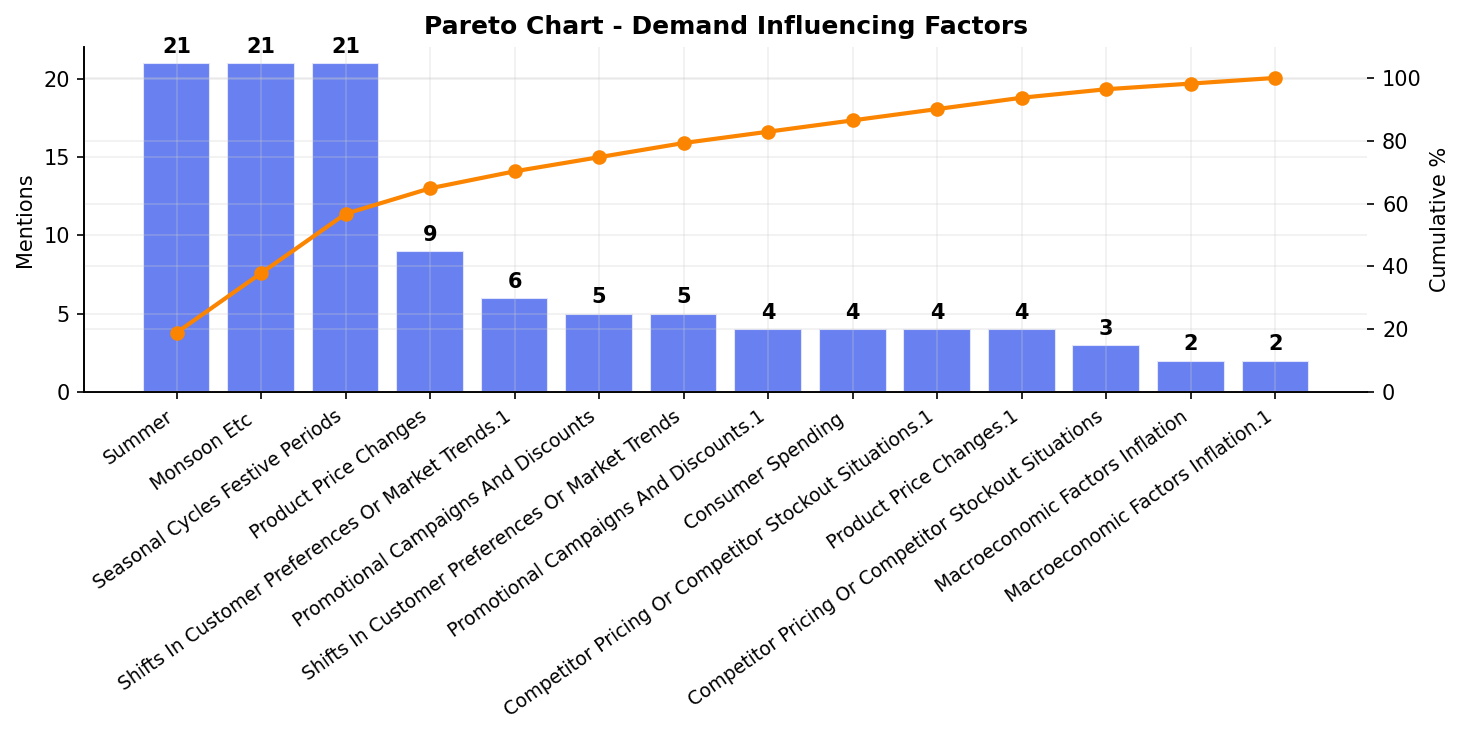
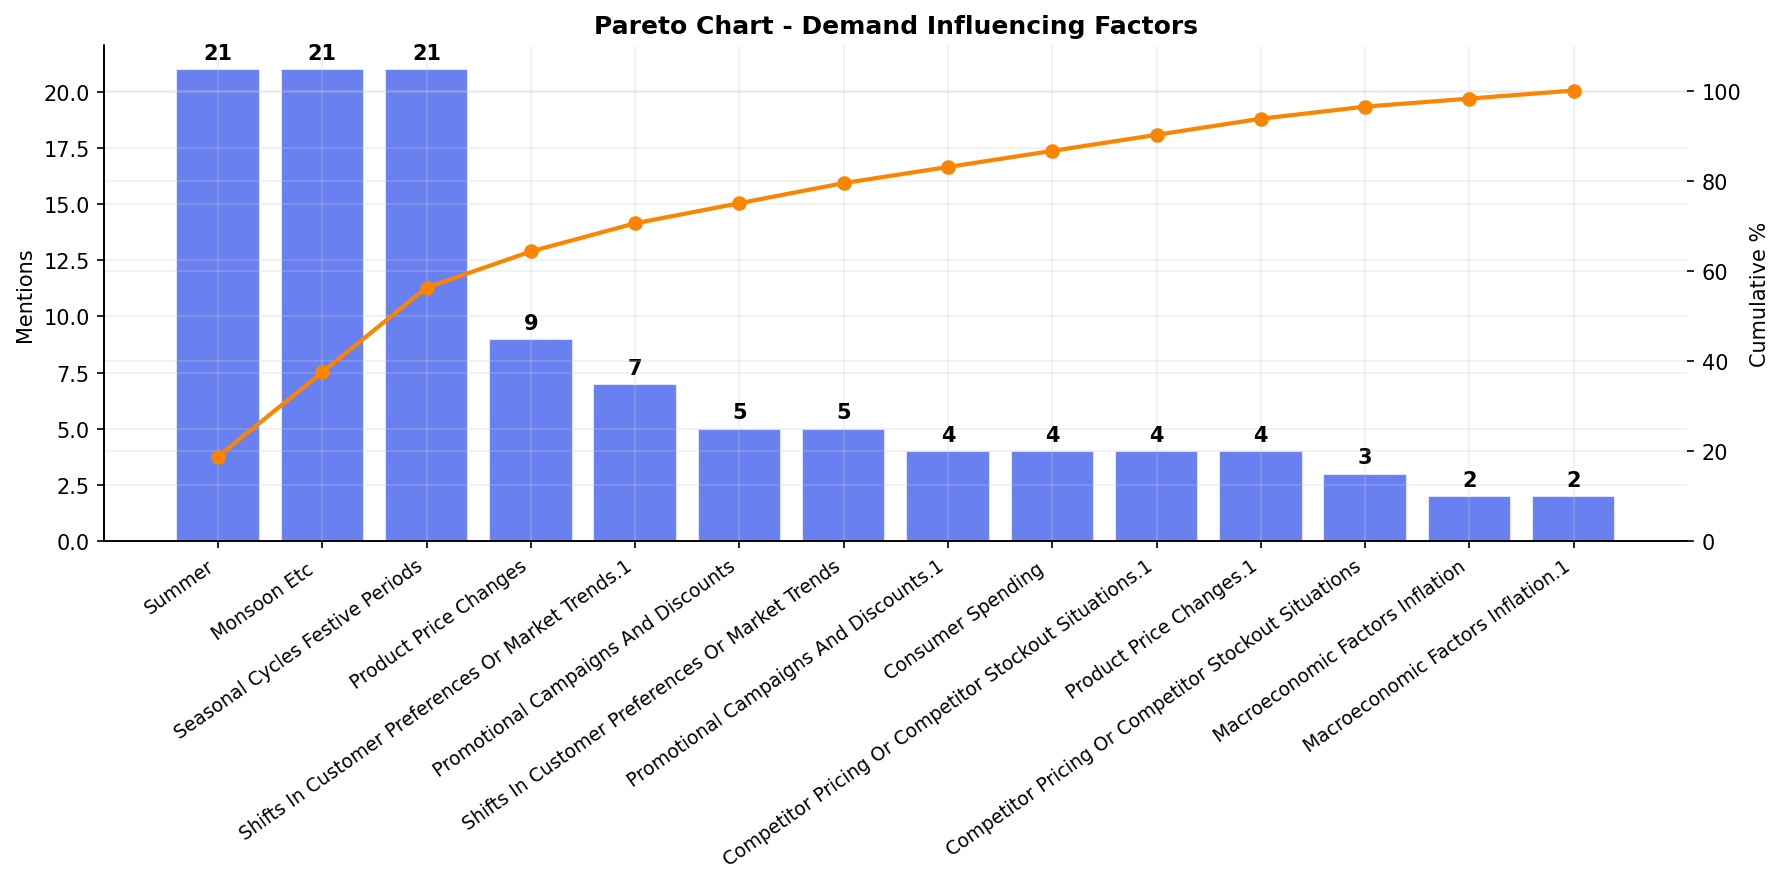
made changes to analysis.py

diff --git a/backend/analysis.py b/backend/analysis.py
@@ -67,15 +67,23 @@ def load_data(filepath=None):
     return df
 
 # -- HELPER ------------------------------------------------------------------
-def wrap_labels(ax, width=15):
+def wrap_labels(ax, width=15, is_x=True):
     labels = []
-    for label in ax.get_xticklabels():
-        text = label.get_text()
-        labels.append(textwrap.fill(text, width=width))
-    ax.set_xticklabels(labels, rotation=0)
+    if is_x:
+        for label in ax.get_xticklabels():
+            text = label.get_text()
+            labels.append(textwrap.fill(text, width=width))
+        ax.set_xticklabels(labels, rotation=0)
+    else:
+        for label in ax.get_yticklabels():
+            text = label.get_text()
+            labels.append(textwrap.fill(text, width=width))
+        ax.set_yticklabels(labels)
 
 def save(name):
     path = os.path.join(CHARTS_DIR, f"{name}.png")
+    print(f"Opening window for: {name} (Please resize it if needed and close to continue)")
+    plt.show() # Opens interactive window (Option 2)
     plt.savefig(path, dpi=150, bbox_inches="tight")
     plt.close()
     print(f"  [OK] {path}")
@@ -88,7 +96,7 @@ def save(name):
 def plot_business_type_bar(df):
     """Bar chart - Business type distribution."""
     vc = df["business_type"].value_counts()
-    fig, ax = plt.subplots(figsize=(7, 4))
+    fig, ax = plt.subplots(figsize=(8, 5))
     bars = ax.bar(vc.index, vc.values, color=COLORS[:len(vc)], width=0.5, edgecolor="white")
     ax.bar_label(bars, fmt="%d", padding=4, fontsize=10, fontweight="bold")
     ax.set_title("Business Type Distribution", fontsize=12, fontweight="bold", pad=16)
@@ -100,7 +108,7 @@ def plot_business_type_bar(df):
 
 def plot_likert_histograms(df):
     """Histogram grid – distribution of all 6 Likert responses."""
-    fig, axes = plt.subplots(2, 3, figsize=(12, 6), sharey=True)
+    fig, axes = plt.subplots(2, 3, figsize=(14, 8))
     axes = axes.flatten()
     for i, col in enumerate(LIKERT_COLS):
         ax = axes[i]
@@ -122,7 +130,7 @@ def plot_likert_histograms(df):
 
 def plot_likert_density(df):
     """KDE density plot – smooth distributions of Likert responses."""
-    fig, ax = plt.subplots(figsize=(9, 5))
+    fig, ax = plt.subplots(figsize=(10, 6))
     for i, col in enumerate(LIKERT_COLS):
         jitter = df[col] + np.random.normal(0, 0.08, len(df))
         sns.kdeplot(jitter, ax=ax, label=LIKERT_LABELS[col].replace("\n"," "),
@@ -139,7 +147,7 @@ def plot_likert_density(df):
 
 def plot_box_plots(df):
     """Box plots – Likert spread and outliers by category."""
-    fig, ax = plt.subplots(figsize=(10, 5))
+    fig, ax = plt.subplots(figsize=(12, 6))
     data_list = [df[c].dropna().values for c in LIKERT_COLS]
     labels = [LIKERT_LABELS[c].replace("\n"," ") for c in LIKERT_COLS]
     bp = ax.boxplot(data_list, patch_artist=True, notch=False,
@@ -147,7 +155,7 @@ def plot_box_plots(df):
     for patch, color in zip(bp["boxes"], COLORS):
         patch.set_facecolor(color)
         patch.set_alpha(0.75)
-    ax.set_xticklabels(labels, rotation=20, ha="right", fontsize=9)
+    ax.set_xticklabels(labels, rotation=30, ha="right", fontsize=9)
     ax.set_yticks([1,2,3,4,5])
     ax.set_yticklabels(["SD","D","N","A","SA"])
     ax.set_title("Box Plots – Likert Score Distribution per Statement",
@@ -162,7 +170,7 @@ def plot_violin(df):
     df_v = df[["business_type","L5_analytics_belief"]].dropna()
     if df_v["business_type"].nunique() < 2:
         return
-    fig, ax = plt.subplots(figsize=(8, 5))
+    fig, ax = plt.subplots(figsize=(10, 6))
     parts = ax.violinplot(
         [df_v[df_v["business_type"]==bt]["L5_analytics_belief"].values
          for bt in df_v["business_type"].unique()],
@@ -187,7 +195,7 @@ def plot_violin(df):
 def plot_grouped_bar_stockout_vs_system(df):
     """Grouped bar - Inventory management system vs stockout frequency."""
     tbl = pd.crosstab(df["inv_mgmt"], df["stockout_freq"])
-    ax = tbl.plot(kind="bar", figsize=(10, 5), color=COLORS[:len(tbl.columns)],
+    ax = tbl.plot(kind="bar", figsize=(12, 6), color=COLORS[:len(tbl.columns)],
                   edgecolor="white", width=0.7)
     plt.title("Inventory System vs Stockout Frequency", fontsize=12, fontweight="bold")
     plt.xlabel("Inventory Management System")
@@ -202,7 +210,7 @@ def plot_stacked_forecast_by_biz(df):
     """100% Stacked bar - Forecasting methods by business type."""
     tbl = pd.crosstab(df["business_type"], df["forecast_method"])
     tbl_pct = tbl.div(tbl.sum(axis=1), axis=0) * 100
-    ax = tbl_pct.plot(kind="bar", stacked=True, figsize=(9, 5),
+    ax = tbl_pct.plot(kind="bar", stacked=True, figsize=(11, 6),
                       color=COLORS[:len(tbl_pct.columns)], edgecolor="white", width=0.55)
     plt.title("Forecast Methods by Business Type (100% Stacked)", fontsize=12, fontweight="bold")
     plt.xlabel("Business Type")
@@ -216,7 +224,7 @@ def plot_stacked_forecast_by_biz(df):
 def plot_stacked_demand_pred_by_biz(df):
     """Stacked bar - Demand predictability by business type."""
     tbl = pd.crosstab(df["business_type"], df["demand_predictability"])
-    ax = tbl.plot(kind="bar", stacked=True, figsize=(9, 5),
+    ax = tbl.plot(kind="bar", stacked=True, figsize=(11, 6),
                   color=COLORS[:len(tbl.columns)], edgecolor="white", width=0.55)
     plt.title("Demand Predictability by Business Type", fontsize=12, fontweight="bold")
     plt.xlabel("Business Type")
@@ -238,7 +246,7 @@ def plot_heatmap_correlation(df):
         print("  [!] Too few rows for correlation - skipping")
         return
     corr = likert_df.corr(method="pearson")
-    fig, ax = plt.subplots(figsize=(8, 6))
+    fig, ax = plt.subplots(figsize=(10, 8))
     mask = np.triu(np.ones_like(corr, dtype=bool), k=1)
     sns.heatmap(corr, annot=True, fmt=".2f", cmap="coolwarm", center=0,
                 linewidths=0.5, ax=ax,
@@ -258,7 +266,7 @@ def plot_bubble_chart(df):
     if len(plot_df) == 0:
         return
 
-    fig, ax = plt.subplots(figsize=(9, 5))
+    fig, ax = plt.subplots(figsize=(11, 6))
     biz_types = plot_df["business_type"].unique()
     for i, bt in enumerate(biz_types):
         sub = plot_df[plot_df["business_type"] == bt]
@@ -311,6 +319,7 @@ def plot_diverging_likert(df):
 
     ax.set_yticks(range(len(labels)))
     ax.set_yticklabels(labels, fontsize=9)
+    wrap_labels(ax, width=25, is_x=False)
     ax.axvline(0, color="black", linewidth=1.2)
     ax.set_xlabel("← Disagree  |  Percentage of Respondents (%)  |  Agree →")
     ax.set_title("Diverging Likert Chart – Survey Perception Statements",
@@ -335,10 +344,11 @@ def plot_radar_likert(df):
     angles+= angles[:1]
     labels = [LIKERT_LABELS[c].replace("\n"," ") for c in LIKERT_COLS]
 
-    fig, ax = plt.subplots(figsize=(7, 7), subplot_kw=dict(polar=True))
+    fig, ax = plt.subplots(figsize=(8, 8), subplot_kw=dict(polar=True))
     ax.plot(angles, avgs, color=COLORS[0], linewidth=2.5, zorder=3)
     ax.fill(angles, avgs, color=COLORS[0], alpha=0.2)
     ax.set_thetagrids(np.degrees(angles[:-1]), labels, fontsize=8)
+    ax.tick_params(axis='x', pad=15)
     ax.set_ylim(0, 5)
     ax.set_yticks([1,2,3,4,5])
     ax.set_yticklabels(["1","2","3","4","5"], fontsize=7, color="gray")
@@ -365,7 +375,7 @@ def plot_demand_factors_pareto(df):
     
     s_pct = s.cumsum() / s.sum() * 100
 
-    fig, ax1 = plt.subplots(figsize=(10, 5))
+    fig, ax1 = plt.subplots(figsize=(12, 6))
     bars = ax1.bar(range(len(s)), s.values, color=COLORS[0], alpha=0.8, edgecolor="white")
     ax1.bar_label(bars, fmt="%d", padding=3, fontweight="bold")
     ax1.set_xticks(range(len(s)))
@@ -384,7 +394,7 @@ def plot_demand_factors_pareto(df):
 def plot_horizontal_stockout(df):
     """Ordered horizontal bar chart - Stockout frequency."""
     vc = df["stockout_freq"].value_counts()
-    fig, ax = plt.subplots(figsize=(8, 4))
+    fig, ax = plt.subplots(figsize=(10, 5))
     bars = ax.barh(vc.index, vc.values, color=COLORS[1], height=0.6)
     ax.bar_label(bars, fmt="%d", padding=4, fontweight="bold")
     ax.set_title("Stockout Frequency Distribution", fontsize=12, fontweight="bold")
@@ -404,7 +414,7 @@ def plot_response_timeline(df):
         return
     df_t = df.sort_values("timestamp")
     df_t["cumulative"] = range(1, len(df_t)+1)
-    fig, ax = plt.subplots(figsize=(9, 4))
+    fig, ax = plt.subplots(figsize=(11, 5))
     ax.plot(df_t["timestamp"], df_t["cumulative"],
             marker="o", color=COLORS[0], linewidth=2.5, markersize=8)
     ax.fill_between(df_t["timestamp"], df_t["cumulative"], alpha=0.15, color=COLORS[0])
@@ -470,7 +480,7 @@ def plot_supplier_lead_time_histogram(df):
     """Histogram-style bar – Lead time distribution."""
     order = ["1–3 days","4–7 days","8–14 days","15–30 days","More than 30 days"]
     vc    = df["lead_time"].value_counts().reindex(order).fillna(0)
-    fig, ax = plt.subplots(figsize=(8, 4))
+    fig, ax = plt.subplots(figsize=(10, 5))
     bars = ax.bar(vc.index, vc.values, color=COLORS[1], width=0.6, edgecolor="white")
     ax.bar_label(bars, fmt="%d", padding=4, fontweight="bold")
     ax.set_title("Supplier Lead Time Distribution", fontsize=13, fontweight="bold")
@@ -500,7 +510,7 @@ def plot_likert_means_bar(df):
     """Horizontal bar - Average Likert score per statement."""
     avgs = [df[c].mean() for c in LIKERT_COLS]
     labels = [LIKERT_LABELS[c] for c in LIKERT_COLS]
-    fig, ax = plt.subplots(figsize=(10, 5))
+    fig, ax = plt.subplots(figsize=(12, 6))
     bars = ax.barh(labels, avgs, color=COLORS, height=0.6, edgecolor="white")
     ax.bar_label(bars, fmt="%.2f", padding=4, fontweight="bold")
     ax.set_xlim(0, 5.5)
